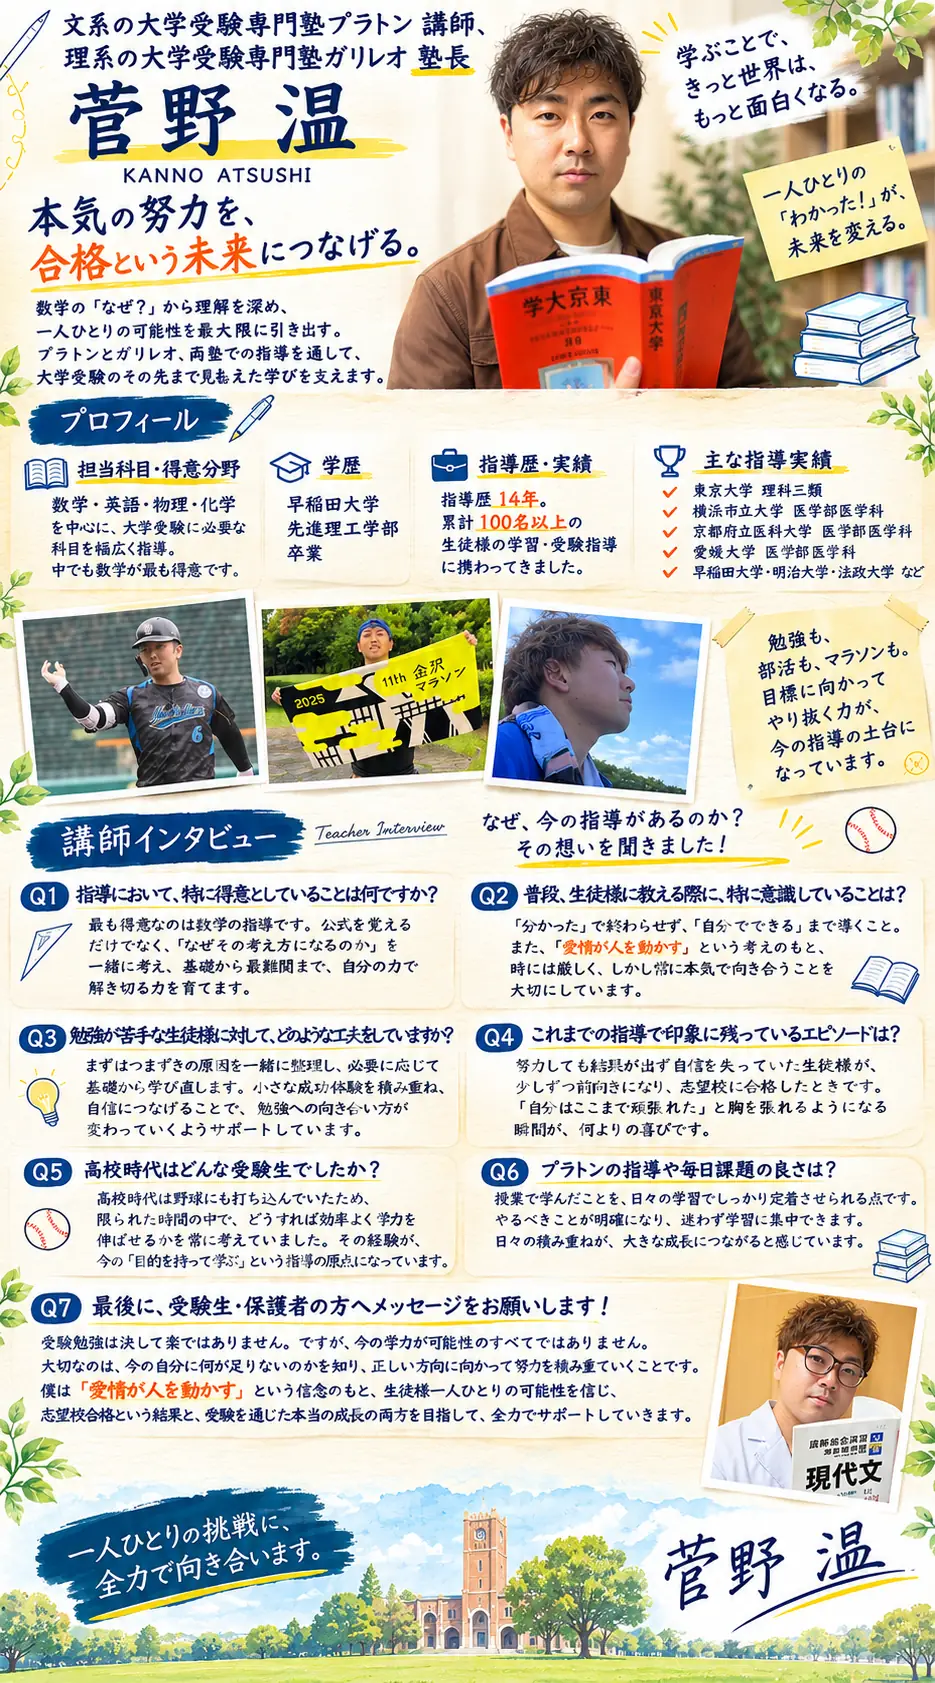
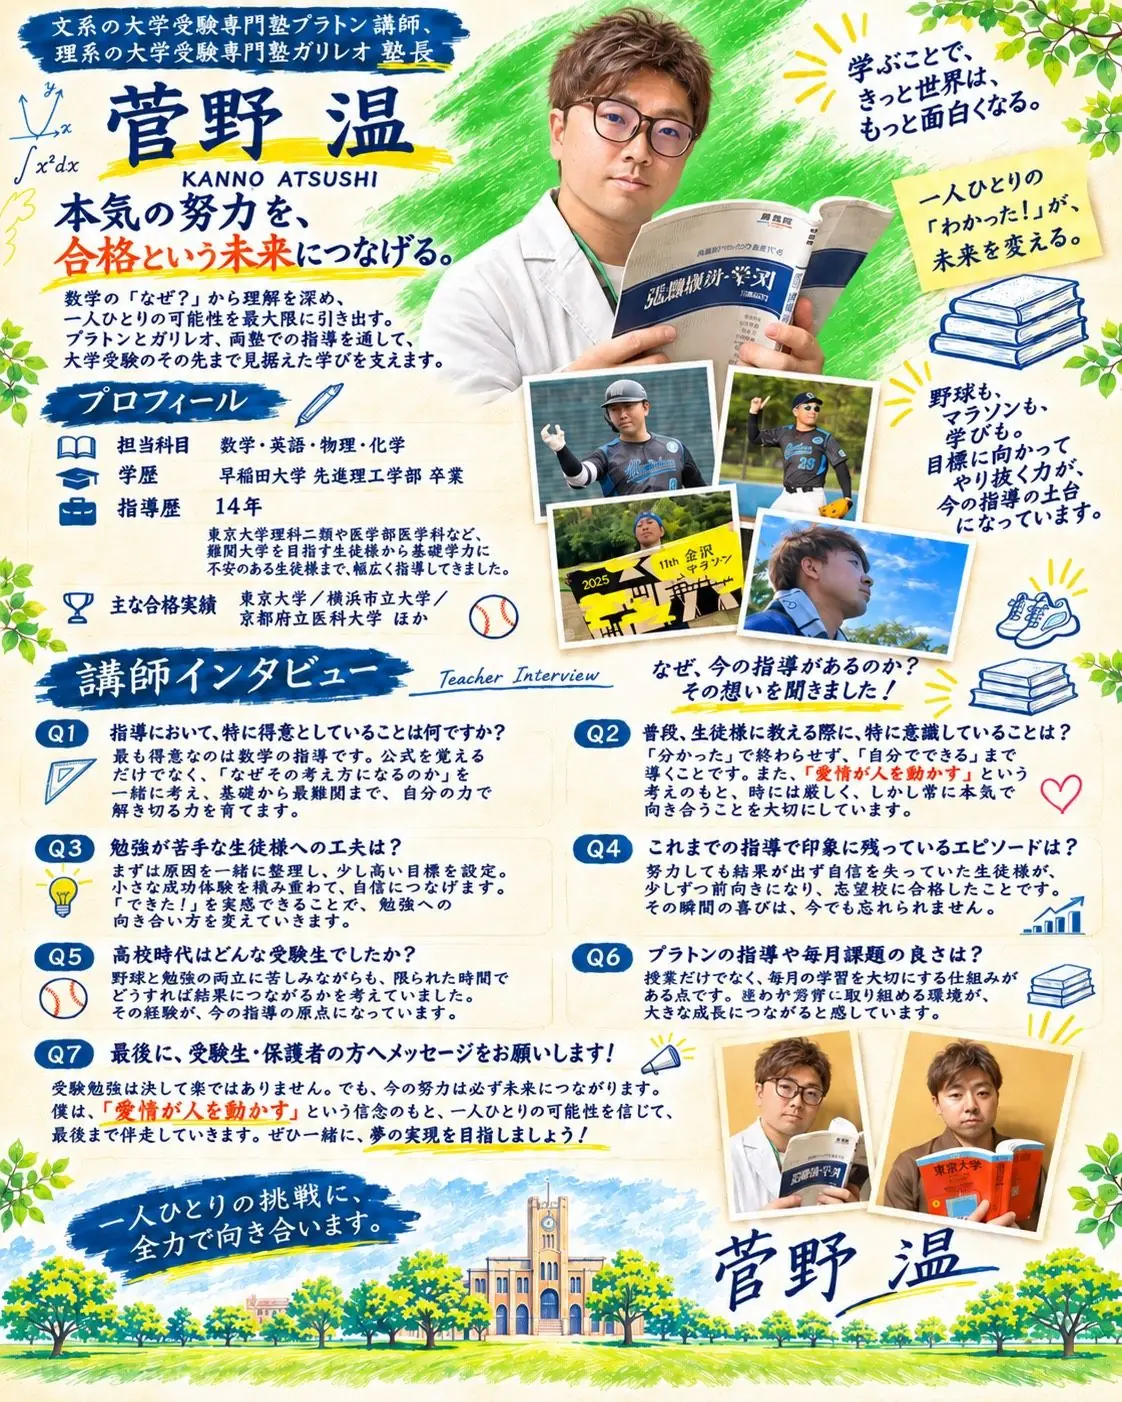
講師紹介：菅野先生のカード写真・文言・詳細プロフィールを差し替え (#309)
* 講師紹介：佐野代表カードに詳細プロフィール画像のモーダル表示を追加

Claude-Session: https://claude.ai/code/session_01FDtC5DgzY7bSJsky8XRU7H

* 講師紹介：與那覇先生カードにも詳細プロフィールを追加（モーダルを講師別に切替）

Claude-Session: https://claude.ai/code/session_01FDtC5DgzY7bSJsky8XRU7H

* 講師プロフィール画像の表示を高速化（軽量化・先読み・キャッシュ）

- 画像を再圧縮（webp 約25%減、jpg 約22%減）
- カードが画面に近づいた時／触れた時に画像を先読み
- 読み込み中はスピナーを表示し、前の先生の画像が一瞬見える問題を解消
- Netlifyでプロフィール画像に1週間のブラウザキャッシュを設定

Claude-Session: https://claude.ai/code/session_01FDtC5DgzY7bSJsky8XRU7H

* Netlify：講師プロフィール画像に1週間のブラウザキャッシュを設定

Claude-Session: https://claude.ai/code/session_01FDtC5DgzY7bSJsky8XRU7H

* 講師紹介：佐野代表・與那覇先生のアイコンを実写写真に変更

Claude-Session: https://claude.ai/code/session_01FDtC5DgzY7bSJsky8XRU7H

* 授業の様子：ギャラリー画像の1枚を新刊のお知らせ画像に差し替え

Claude-Session: https://claude.ai/code/session_01FDtC5DgzY7bSJsky8XRU7H

* コース紹介：3コースの「含まれるもの」から三者面談を削除

Claude-Session: https://claude.ai/code/session_01FDtC5DgzY7bSJsky8XRU7H

* トップページに代表の著書（新刊）紹介セクションと購入導線を追加

- 書籍紹介（こんな受験生に／この本でお伝えしていること／著者）をお問い合わせ欄の直前に追加
- 価格1,200円（税込）＋送料、2〜3日以内発送の案内
- 購入ボタンはStripe決済ページのURLを data-checkout に設定すると有効化（未設定時は「販売準備中」）
- フッターに「代表の著書」リンクを追加

Claude-Session: https://claude.ai/code/session_01FDtC5DgzY7bSJsky8XRU7H

* 書籍セクション：表紙画像を正式版に差し替え

Claude-Session: https://claude.ai/code/session_01FDtC5DgzY7bSJsky8XRU7H

* 書籍セクション：購入ボタンにStripe本番の決済ページを設定し、価格表示を送料無料に変更

Claude-Session: https://claude.ai/code/session_01FDtC5DgzY7bSJsky8XRU7H

* 合格者の声：保護者様アンケートを横スクロール＋一覧モーダル（区分で絞り込み）に整理

- トップページでは20件を1行の横スクロールで表示（スマホで約10行分→1行分に短縮）
- PCは左右の矢印ボタンでも送れる
[…]

diff --git a/index.html b/index.html
@@ -830,6 +830,7 @@ i[data-lucide]{display:inline-flex;align-items:center;vertical-align:middle;}
   background:var(--pale);box-shadow:0 6px 18px rgba(111,45,67,.12);
 }
 .tcard-photo img{width:100%;height:100%;object-fit:cover;object-position:50% 20%;}
+.tcopy .nw{display:inline-block;}
 .tcard-body{position:relative;min-width:0;display:grid;gap:.7rem;justify-items:start;text-align:left;padding-block:.3rem;}
 .tcard-deco{position:absolute;right:0;top:-2px;width:112px;height:64px;color:var(--red);opacity:.5;pointer-events:none;}
 .tcard-deco svg{width:100%;height:100%;display:block;}
@@ -2486,8 +2487,8 @@ footer{background:var(--dark);padding:2.5rem 4vw 1.2rem;}
         <div class="tcard-body">
           <div class="tcard-deco"><svg viewBox="0 0 120 70" aria-hidden="true"><g fill="none" stroke="currentColor" stroke-width="2" stroke-linecap="round" stroke-linejoin="round"><path d="M10 58h90M20 58v-8M35 58v-12M50 58v-8M65 58v-12M80 58v-8M95 58v-12"/><path d="M14 40 L30 10 L46 40Z"/><path d="M58 18c0-6 10-8 14-2M58 30h20M86 12l14 20M100 12 86 32"/></g></svg></div>
           <div class="tcard-meta"><span class="tbadge">講師</span><span class="tchip">数学・英語・物理・化学</span></div>
-          <h3 class="tname"><span class="nm">菅野 温</span><span class="tromaji">KANNO ATSUSHI</span></h3>
-          <p class="tcopy"><span class="tspark" aria-hidden="true"></span>本気の努力を、<br><mark>合格という未来につなげる。</mark></p>
+          <h3 class="tname"><span class="nm">菅野 温</span><span class="tromaji">SUGANO ATSUSHI</span></h3>
+          <p class="tcopy"><span class="tspark" aria-hidden="true"></span><span class="nw">医学・健康・スポーツの</span><span class="nw">知見を活かし、</span><br><mark>まなびと成長をサポートします。</mark></p>
           <p class="tsub">数学の「なぜ？」から理解を深め、一人ひとりの可能性を引き出す。</p>
           <button type="button" class="sprofile-btn" data-profile="kanno">詳しいプロフィールを見る <span aria-hidden="true">›</span></button>
         </div>
@@ -3287,7 +3288,7 @@ document.querySelectorAll('.reveal').forEach(el => obs.observe(el));
   const PROFILES = {
     sano: { src: 'img/sano-profile', label: '代表 佐野翼 プロフィール', alt: 'プラトン創業者・代表 佐野翼のプロフィール：専門性・世界観を重視した文系指導、創業者インタビュー、創業初年度の合格実績（2023年度合格者5名：一橋大学 経済学部・社会学部、北海道大学 文学部、早稲田大学 政治経済学部、上智大学 外国語学部）、書籍『大学受験は「毎日」で決まる』紹介、生徒・保護者の皆さまへのメッセージ' },
     yonaha: { src: 'img/yonaha-profile', label: '與那覇あかり先生 プロフィール', alt: 'プラトン講師 與那覇あかり先生のプロフィール：担当科目は国語・英語。海上保安庁での約5年間の経験、指導で大切にしていること（一人ひとりに寄り添う指導・小さな目標の積み重ね・学んだ経験を生かしたサポート・安心して話せる環境づくり）、これまでの歩み、インタビュー' },
-    kanno: { src: 'img/kanno-profile', label: '菅野温先生 プロフィール', alt: 'プラトン講師 菅野温先生のプロフィール：担当科目は数学・英語・物理・化学（数学が最も得意）。早稲田大学先進理工学部卒、指導歴14年・累計100名以上の指導、主な指導実績（東京大学理科三類、横浜市立大学・京都府立医科大学・愛媛大学の医学部医学科、早稲田大学・明治大学・法政大学など）、指導で大切にしていること、インタビュー' },
+    kanno: { src: 'img/kanno-profile', label: '菅野温先生 プロフィール', alt: '文系の大学受験専門塾プラトン講師・理系の大学受験専門塾ガリレオ塾長 菅野温先生のプロフィール：「本気の努力を、合格という未来につなげる。」担当科目は数学・英語・物理・化学。早稲田大学先進理工学部卒、指導歴14年（東京大学理科二類や医学部医学科などの難関大志望から基礎学力に不安のある生徒まで指導）。主な合格実績は東京大学・横浜市立大学・京都府立医科大学ほか。講師インタビュー（Q1〜Q7）、受験生・保護者へのメッセージ' },
     nakatani: { src: 'img/nakatani-profile', label: '中谷先生 プロフィール', alt: 'プラトン講師 中谷先生のプロフィール：担当科目は現代文・古文・漢文。甲南大学文学部日本語日本文学科卒、私立高校・公立中学校での国語科教員の経験、国語指導の強み（「答え」ではなく答えにたどり着く道筋を教える・根拠を自分の言葉で説明できるように・インプットとアウトプット）、これまでの歩み、講師インタビュー、受験生・保護者の皆さまへのメッセージ' },
     yoshioka: { src: 'img/yoshioka-profile', label: '専任アドバイザー 吉岡彩 プロフィール', alt: 'プラトン専任アドバイザー 吉岡彩のプロフィール：役割は広報・受験サポート・保護者サポート。大切にしていること（一人ひとりの状況や気持ちを理解し、前向きに努力を続けられる環境づくり）、発信テーマ（大学受験情報・保護者向けのヒント・学習習慣・小さな成長の見つけ方）、強み（受験経験をふまえた共感・わかりやすい発信・寄り添う姿勢）' }
   };
